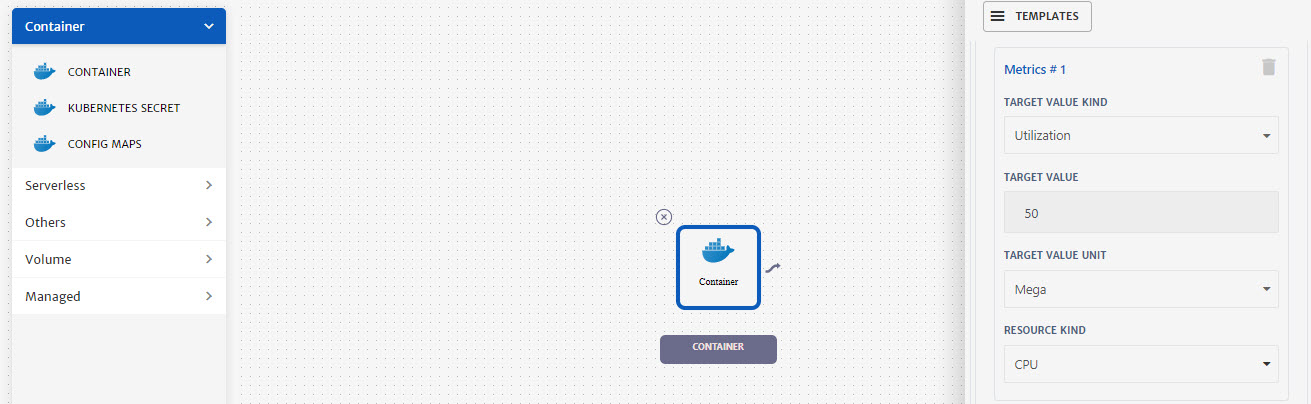
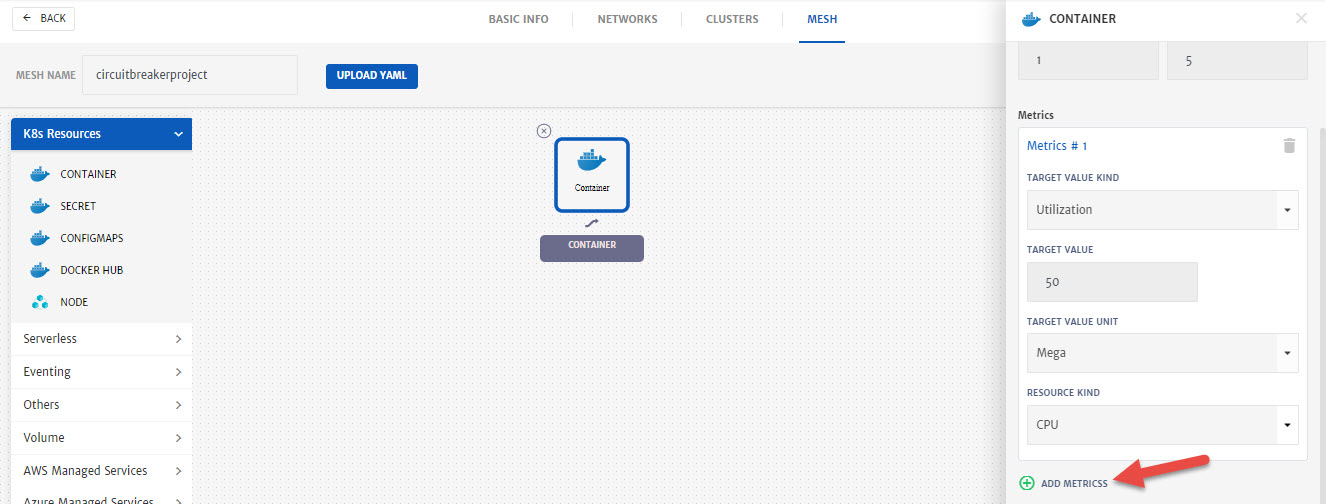
scaling

diff --git a/pages/user-guide/components/scaling/scaling.md b/pages/user-guide/components/scaling/scaling.md
@@ -38,15 +38,17 @@ Now let’s move to step by step process on how to setup Container scaling.
 
 **Container Scaling**
 
-1. Go to the **Solution** tab, configure **Container**, click **Advance Settings** and **Enable Scaling**.
+1. Go to the **Mesh** tab, configure **Container**, navigate to the **Scaling** menu and **Enable Scaling**.
 
    ![3](imgs/3.jpg)
 
-2. Specify MIN and MAX number for container replicas. 
+   ![3.2](imgs\3.2.jpg)
+
+2. Specify **MIN** and **MAX** number for container replicas. 
 
    ![4](imgs/4.jpg)
 
-3. Click **Add Metrics** and configure the threshold for scaling
+3. Click **Add Metrics** and configure the threshold for scaling. (You can add more than 1 metrics as well)
 
    - Select **Target Value Kind** from drop-down i.e. **Utilization** % of resource, Value, Average. 
    - Specify the **Target Value** for the **Kind** selected above.
@@ -55,7 +57,7 @@ Now let’s move to step by step process on how to setup Container scaling.
 
    ![5](imgs/5.jpg)
 
-4. Click **Save** to save container configurations.
+4. Click **Save** to save scaling configurations.
 
 ## Node Scaling
 
@@ -75,15 +77,16 @@ Now let’s move to step by step process on how to setup Node scaling.
 
 **Node Scaling**
 
-1. Start a Project creation wizard and go to the **Cluster** configuration.
-
-2. Add a 2nd node pool.
-   **Note**: 1st node pool is always Master Pool and user can’t define a scaling on it.
+1. Once container scaling is enabled and configured, click **Configure NodePool Auto Scaling** to configure node scaling.
 
    ![1](imgs/1.jpg)
 
-3. Scroll down and use the radio button to enable scaling.
+2. Select the Node Pool **Name** from drop-down for scaling. 
 
-4. Specify the **Max Scaling Group Size** i.e. the number that node can be scaled to in case of resource requirement. (Conditions will be set at container level scaling)
+   > **Note**: 1st node pool is always Master Pool and user can’t define a scaling on it.
+
+3. Specify the **Max Scaling Group Size** i.e. the number that node can be scaled to in case of resource requirement and click **Update**. (Conditions will be set at container level scaling)
+
+   Similarly, you can set scaling for other node pools as well. 
 
    ![2](imgs/2.jpg)
